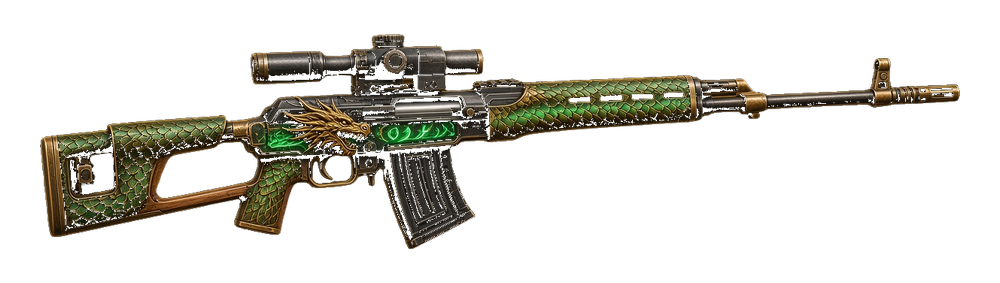
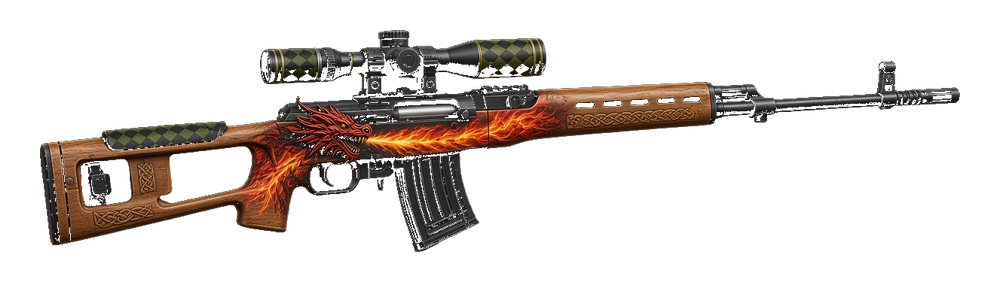
Redraw Faction Lord SVD with Dragon Lore art.

Changed region(s): [[0.031, 0.0848, 0.961, 0.9046]]

diff --git a/src/app/globals.css b/src/app/globals.css
@@ -1762,8 +1762,8 @@ body:has(.public-rating-page) {
 .nick-patch-mark[data-patch-id="creator-svd-faction-lord"]
   .nick-patch-mark-art {
   filter:
-    drop-shadow(0 0 3px rgba(180, 255, 140, 0.75))
-    drop-shadow(0 0 8px rgba(212, 175, 55, 0.55));
+    drop-shadow(0 0 3px rgba(255, 210, 120, 0.75))
+    drop-shadow(0 0 8px rgba(220, 90, 40, 0.45));
 }
 .nick-patch-mark[data-patch-id="creator-svd-faction-lord"]:hover
   .nick-patch-mark-art,
@@ -1773,9 +1773,9 @@ body:has(.public-rating-page) {
   .nick-patch-mark-art {
   transform: scaleX(-1) scale(1.08);
   filter:
-    drop-shadow(0 0 5px rgba(200, 255, 160, 0.95))
-    drop-shadow(0 0 12px rgba(212, 175, 55, 0.72))
-    brightness(1.12)
+    drop-shadow(0 0 5px rgba(255, 230, 160, 0.95))
+    drop-shadow(0 0 12px rgba(230, 100, 40, 0.65))
+    brightness(1.1)
     saturate(1.08);
 }
 .nick-patch-mark[data-patch-id="bp-l15-keech"]:hover

diff --git a/src/app/profile-v2.css b/src/app/profile-v2.css
@@ -1456,8 +1456,8 @@ body.has-profile-bg .shell:has(.profile-page) {
   width: 96%;
   transform: scaleX(-1);
   filter:
-    drop-shadow(0 0 3px rgba(180, 255, 140, 0.7))
-    drop-shadow(0 0 8px rgba(212, 175, 55, 0.5));
+    drop-shadow(0 0 3px rgba(255, 210, 120, 0.7))
+    drop-shadow(0 0 8px rgba(220, 90, 40, 0.45));
   transition: filter 0.15s ease, transform 0.15s ease;
 }
 .profile-patch-tile[data-patch-id="creator-svd-faction-lord"]:hover
@@ -1468,8 +1468,8 @@ body.has-profile-bg .shell:has(.profile-page) {
   .profile-patch-tile-art {
   transform: scaleX(-1) scale(1.06);
   filter:
-    drop-shadow(0 0 5px rgba(200, 255, 160, 0.9))
-    drop-shadow(0 0 12px rgba(212, 175, 55, 0.7))
+    drop-shadow(0 0 5px rgba(255, 230, 160, 0.9))
+    drop-shadow(0 0 12px rgba(230, 100, 40, 0.65))
     brightness(1.06);
 }
 
